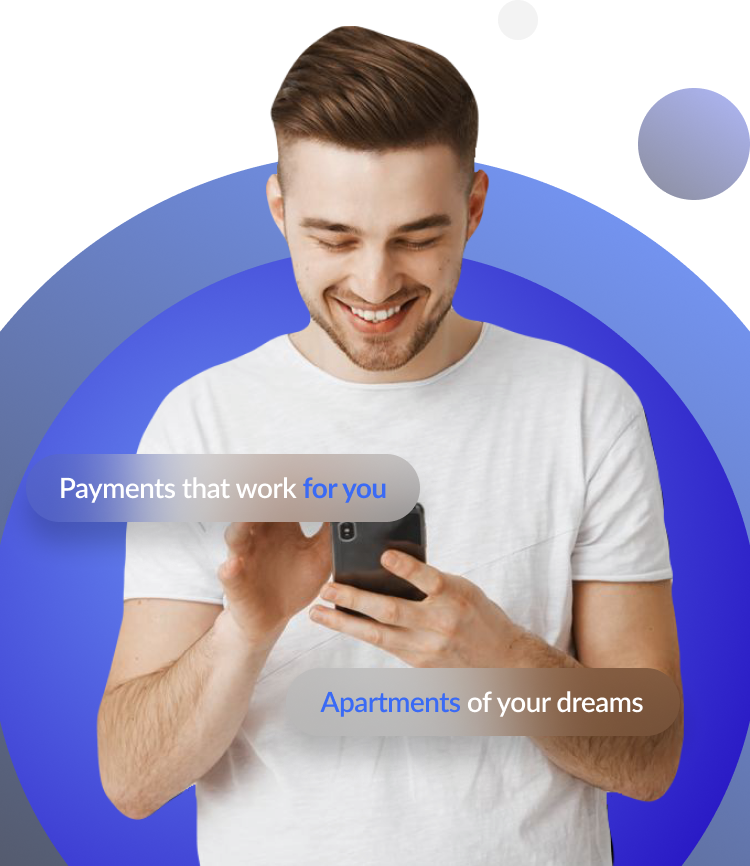
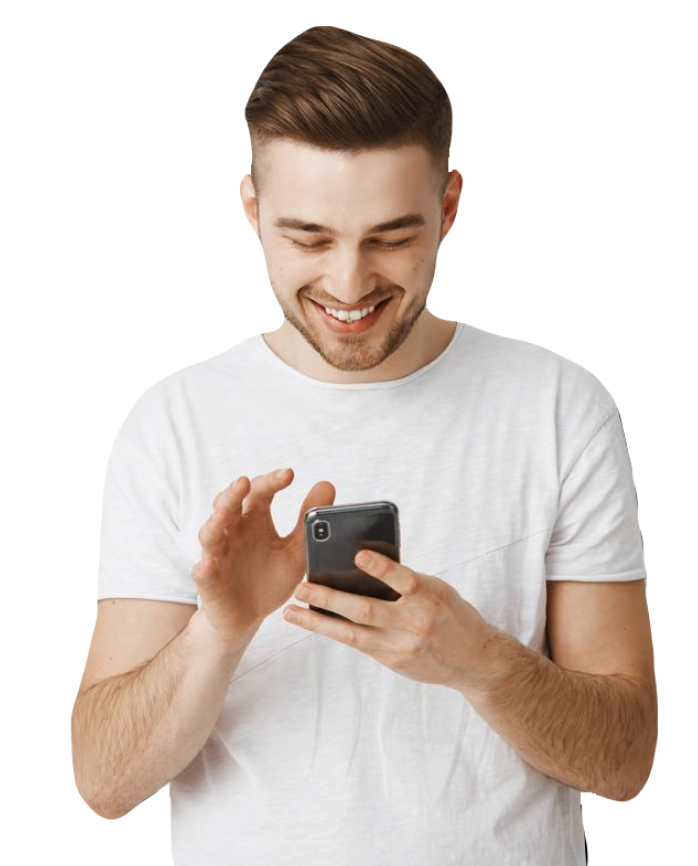
adds multy-layer hero styles, all screen width

diff --git a/src/components/HomePageElt/HomePageElt.module.scss b/src/components/HomePageElt/HomePageElt.module.scss
@@ -49,24 +49,119 @@
   }
 }
 
+.imgWrap {
+  position: absolute;
+  overflow: hidden;
+  width: 481px;
+  height: 433px;
+  right: 50%;
+  bottom: 0;
+
+  @include tablet {
+    width: 656px;
+    height: 566px;
+  }
+  @include desktop_max {
+    transform: translateX(50%);
+  }
+  @include desktop {
+    width: 630px;
+    height: 595px;
+    left: 50%;
+  }
+}
+
+.imgOuterRound {
+  position: absolute;
+  width: 481px;
+  height: 481px;
+  bottom: -135px;
+
+  border-radius: 50%;
+  z-index: 1;
+  background: linear-gradient(
+    212.28deg,
+    rgba(58, 106, 245, 0.7) 9.2%,
+    rgba(0, 0, 0, 0.7) 97.4%
+  );
+
+  @include tablet {
+    width: 630px;
+    height: 630px;
+    right: 0;
+    bottom: -164px;
+  }
+}
+
+.imgInnerRound {
+  position: absolute;
+  width: 80%;
+  height: 80%;
+  left: 50%;
+  top: 50%;
+  transform: translate(-50%, -50%);
+  z-index: 2;
+
+  background: radial-gradient(
+    63.33% 63.33% at 34.17% 36.67%,
+    #6c92f3 0%,
+    #1d03bd 100%
+  );
+  border-radius: 50%;
+}
+
+.imgRoundWhite {
+  position: absolute;
+  width: 20px;
+  height: 20px;
+  right: 31%;
+  top: 0px;
+  border-radius: 50%;
+
+  background: $white;
+
+  @include tablet {
+    width: 26px;
+    height: 26px;
+  }
+}
+
+.imgRoundGrad {
+  position: absolute;
+  width: 56px;
+  height: 56px;
+  right: 11%;
+  top: 10%;
+  border-radius: 50%;
+  background: linear-gradient(
+    214.51deg,
+    rgba(88, 104, 223, 0.5) 9.68%,
+    rgba(0, 0, 0, 0.5) 132.56%
+  );
+
+  @include tablet {
+    width: 74px;
+    height: 74px;
+  }
+}
+
 .homeImg {
   overflow: hidden;
-  margin-left: -16px;
-  width: 375px;
-  height: 432px;
-
+  position: absolute;
+  width: 349px;
+  height: 454px;
+  right: 13%;
+  top: 4%;
+  z-index: 5;
   background-image: url(../../assets/images/hero-mobile.png);
   @include retina {
     background-image: url(../../assets/images/hero-mobile-2x.png);
   }
-  background-repeat: no-repeat;
-  background-position: center;
 
   @include tablet {
-    margin: 0 auto;
-    width: 656px;
-    height: 566px;
-
+    width: 438px;
+    height: 569px;
+    right: 18%;
     background-image: url(../../assets/images/hero-tablet.png);
     @include retina {
       background-image: url(../../assets/images/hero-tablet-2x.png);
@@ -74,19 +169,11 @@
   }
 
   @include desktop {
-    position: absolute;
-    // left: 52%;
-    // top: 17%;
-    right: 0;
-    bottom:0;
-
-    width: 616px;
-    height: 595px;
-
+    width: 438px;
+    height: 569px;
     background-image: url(../../assets/images/hero-desktop.png);
     @include retina {
       background-image: url(../../assets/images/hero-desktop-2x.png);
     }
   }
 }
-

diff --git a/src/components/HomePageElt/HomePageElt.jsx b/src/components/HomePageElt/HomePageElt.jsx
@@ -6,29 +6,39 @@ import { useMediaQuery } from 'react-responsive';
 const HomePageElt = () => {
   const isTablet = useMediaQuery({ query: '(min-width: 768px)' });
   // const location = useLocation();
- 
+
   return (
-         <Container>
-        {/* <NavLink to='/register'state={location}>REGISTER</NavLink>
+    <Container>
+      {/* <NavLink to='/register'state={location}>REGISTER</NavLink>
         <NavLink to='/login' state={location}>LOGIN</NavLink> */}
-      
-        {!isTablet && (
-          <h1 className={s.homeTitle}>
+
+      {!isTablet && (
+        <h1 className={s.homeTitle}>
+          <span className={s.homeTitleAccent}> Planner</span> for joint savings
+          for an apartment
+        </h1>
+      )}
+      {isTablet && (
+        <h1 className={s.homeTitle}>
+          <span>
+            {' '}
             <span className={s.homeTitleAccent}> Planner</span> for joint
-            savings for an apartment
-          </h1>
-        )}
-        {isTablet && (
-          <h1 className={s.homeTitle}>
-            <span>
-              {' '}
-              <span className={s.homeTitleAccent}> Planner</span> for joint
-            </span>
-            savings for an apartment
-          </h1>
-        )}
+          </span>
+          savings for an apartment
+        </h1>
+      )}
+      <div className={s.imgWrap}>
+        <div className={s.imgRoundWhite} />
+        <div className={s.imgRoundGrad} />
 
+        <div className={s.imgOuterRound}>
+          <div className={s.imgInnerRound} />
+        </div>
         <div className={s.homeImg} />
-      </Container>)}
 
-      export default HomePageElt
+      </div>
+    </Container>
+  );
+};
+
+export default HomePageElt;

diff --git a/src/sass/utils/_mixin.scss b/src/sass/utils/_mixin.scss
@@ -10,6 +10,12 @@
     }
 }
 
+@mixin desktop_max {
+    @media screen and (max-width: 1279px) {
+        @content;
+    }
+}
+
 @mixin desktop {
     @media screen and (min-width: 1280px) {
         @content;
